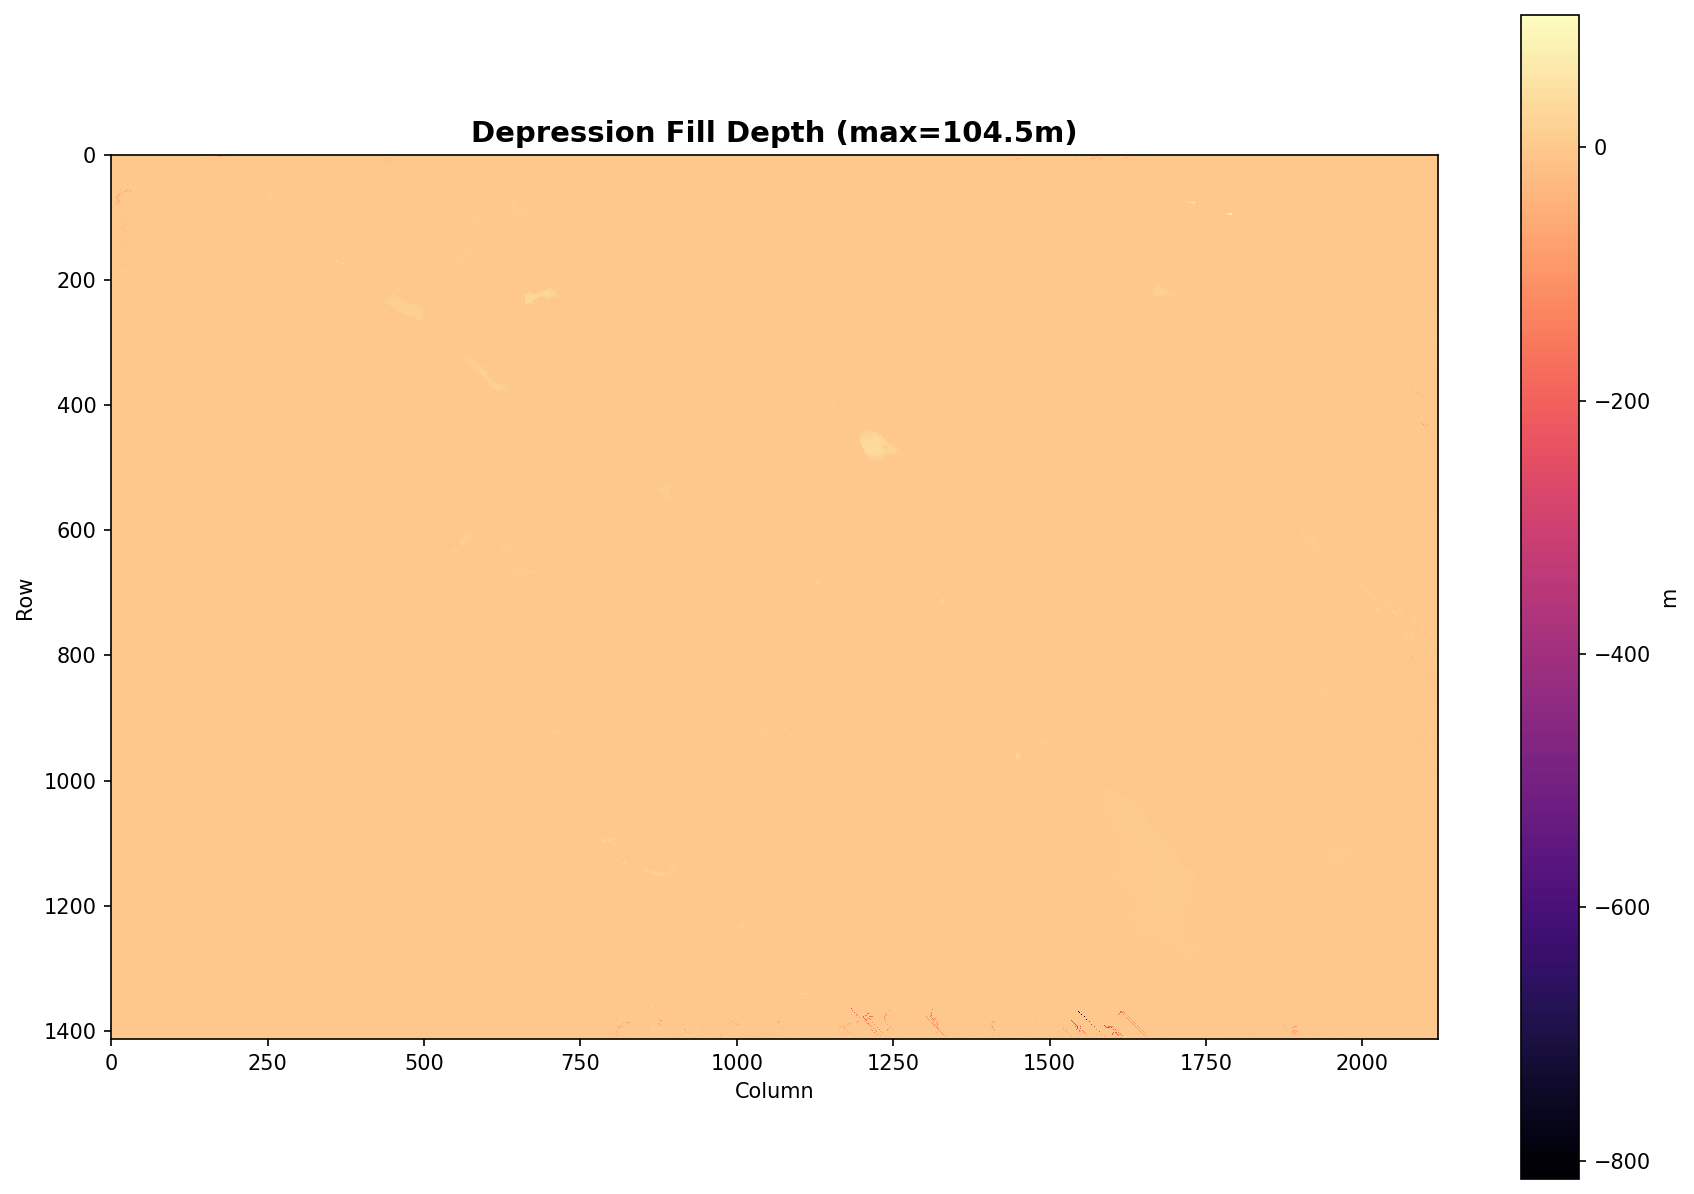
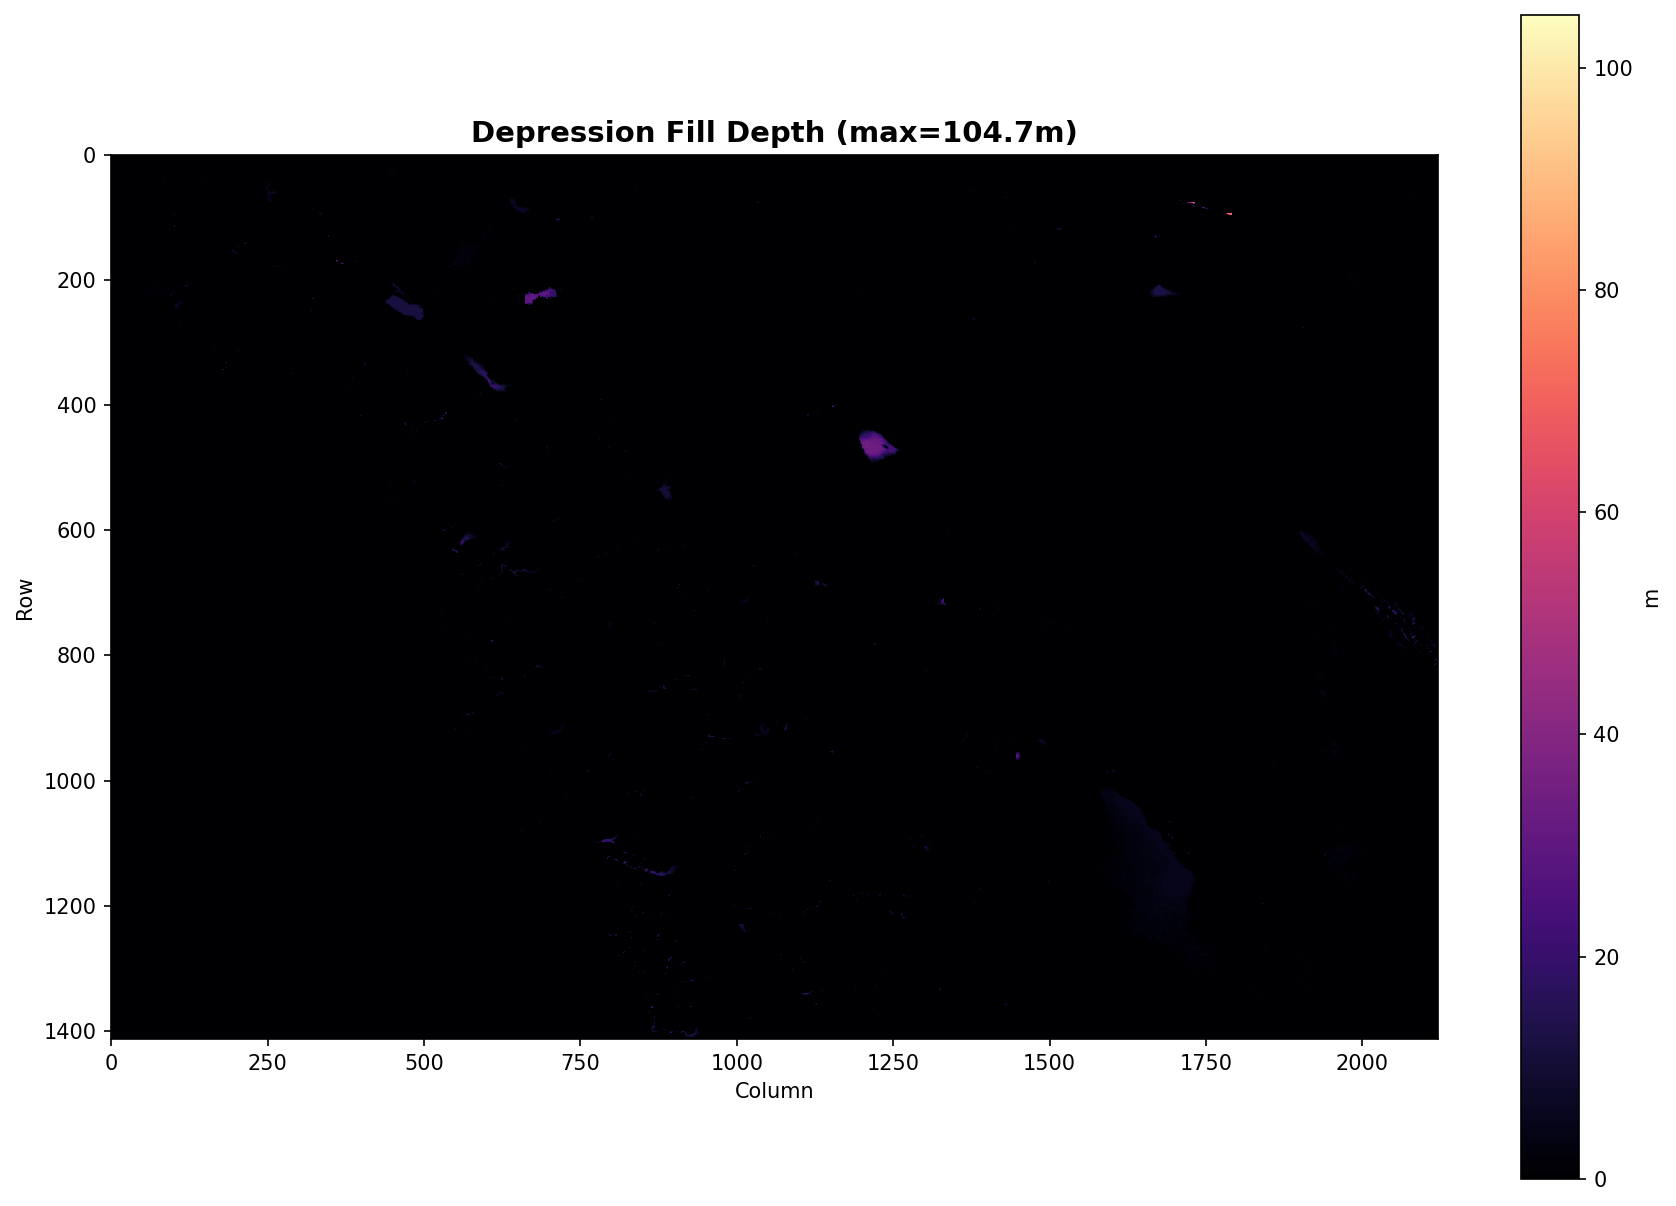
fix: restore log scaling for breach and fill depth plots with positivity check
- Change plot_fill_depth back to log_scale=True (was False after last change)
- Add np.maximum(data, 0) to both plots to ensure strictly non-negative values
- Log scale using log10(data + 1) handles zeros gracefully
- Provides better visualization range for both plots

diff --git a/src/terrain/visualization/flow_diagnostics.py b/src/terrain/visualization/flow_diagnostics.py
@@ -313,6 +313,9 @@ def plot_breach_depth(
     breach_depth = dem - breached_dem  # How much we lowered elevations
     breach_depth[ocean_mask] = 0
 
+    # Ensure strictly non-negative (clip any numerical errors to zero)
+    breach_depth = np.maximum(breach_depth, 0)
+
     # Compute statistics (only where breaching occurred)
     breached_mask = breach_depth > 0.01  # Breached cells (>1cm threshold)
     if np.any(breached_mask):
@@ -355,6 +358,10 @@ def plot_fill_depth(
         fill_depth = dem_conditioned - dem
 
     fill_depth[ocean_mask] = 0
+
+    # Ensure strictly non-negative (clip any numerical errors to zero)
+    fill_depth = np.maximum(fill_depth, 0)
+
     fill_max = np.max(fill_depth)
     return save_flow_plot(
         fill_depth,
@@ -362,7 +369,7 @@ def plot_fill_depth(
         output_path,
         cmap=FLOW_COLORMAPS["fill"],
         label="m",
-        log_scale=False
+        log_scale=True
     )
 
 
